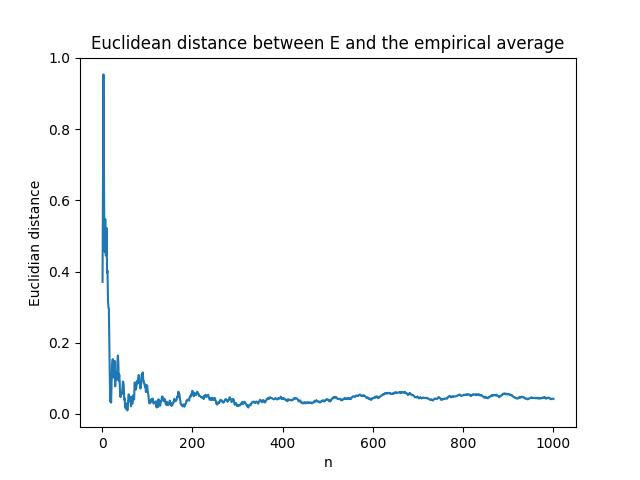
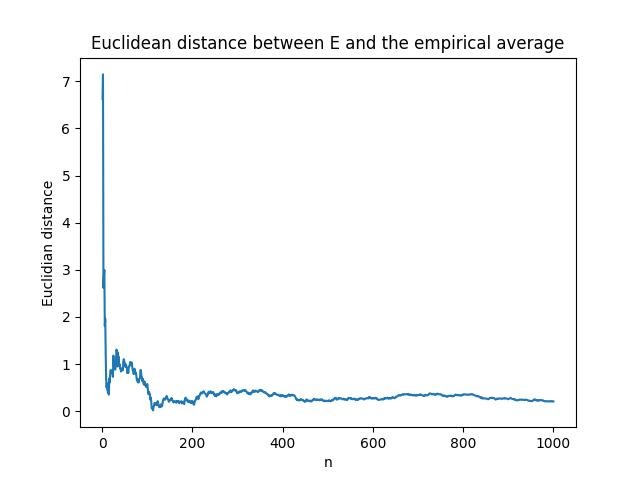
Part 1 done

diff --git a/exercise_1/exercise_1.py b/exercise_1/exercise_1.py
@@ -1,17 +1,23 @@
 #!/bin/env python3
 
+"""
+1. Creates a multivariate normal distribution
+2. Plots n sample
+3. Compute the empirical average of the first n samples, as a function of the number of samples n and plot the euclidean distance to the expected value as a function of n
+"""
+
 import numpy as np
 import scipy.stats as stats
 import matplotlib.pyplot as plt
 
 ## Create the random variable
-joint_dist = stats.multivariate_normal([1, 5], [[1, 0.5], [0.5, 1]])
+joint_dist = stats.multivariate_normal([175, 75], [[20, 10], [10, 10]])
 E_x = joint_dist.mean[0]
 E_y = joint_dist.mean[1]
 expected_value = np.array([E_x, E_y])
 
-print(f'Expected value of x: {E_x}')
-print(f'Expected value of y: {E_y}')
+print(f'Expected value of X: {E_x}')
+print(f'Expected value of Y: {E_y}')
 print(f'Expected value of Z: {expected_value}')
 
 ## Take a sample and plot it
@@ -20,8 +26,8 @@ sample = joint_dist.rvs(size=sample_size)
 
 plt.scatter(sample[:, 0], sample[:, 1])
 plt.title(f'Sample from the law Z (n={sample_size})')
-plt.xlabel('X')
-plt.ylabel('Y')
+plt.xlabel('X (height in cm)')
+plt.ylabel('Y (weight in kg)')
 plt.savefig('images/sample.jpg')
 plt.clf()
 

diff --git a/exercise_1/README.md b/exercise_1/README.md
@@ -9,3 +9,31 @@ The goal of this exercise is to manipulate a data distribution and to get famili
 3. Compute the empirical average of the first n samples, as a function of the number of samples n and verify that it converges to the expected value, by plotting the euclidean distance to the expected value as a function of n.
 
 **Remark**: you may use simple laws. You could for instance start with a very simple joint distribution, make everything work, and then explore more complex distributions.
+
+## Solution
+
+### 1. Random variable
+
+Our random variable Z is a multivariate normal distribution based on the height and weight of individuals.
+
+The mean of the ditribution is ```(175, 75)``` (175cm, 75kg).
+
+The covariance matrix is:
+```python
+[[20, 10],
+ [10, 10]]
+```
+
+Its expected value is ```(175, 75)```.
+
+### 2. Sample
+
+We choose n=1000.
+
+![Sample from the law Z (n=1000)](/images/sample.jpg?raw=true)
+
+### 3. Euclidian distance
+
+![Euclidean distance between the expected and the empirical average](/images/euclidian_distance.jpg?raw=true)
+
+We can see that the empirical average converges to the expected value.

diff --git a/README.md b/README.md
@@ -35,11 +35,6 @@ pip3 freeze > requirements.txt
 
 ## Todo
 
-Part 1:
-- make Z law after real data (change means and covariance)
-- clean up code, add docstring(s)
-- write README
-
 Part 2, 3, 4, 5
 
 Write report
